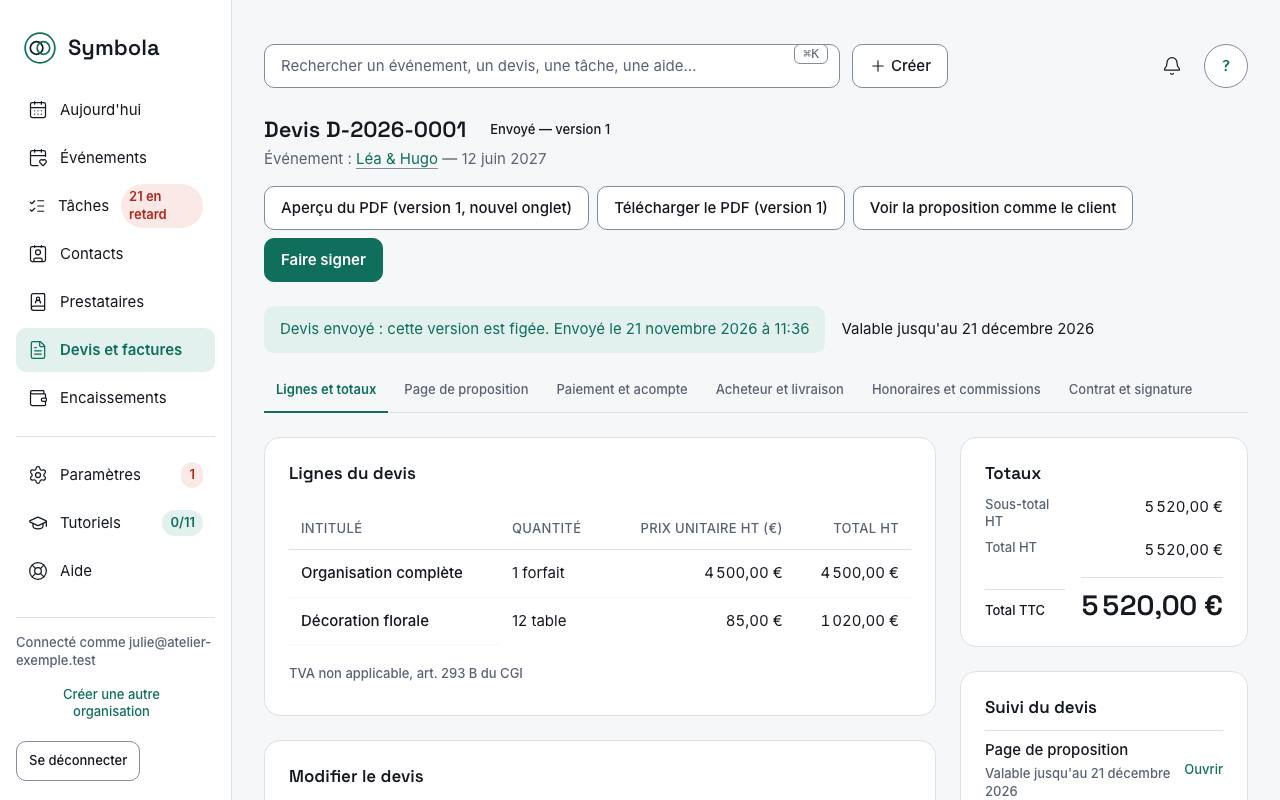
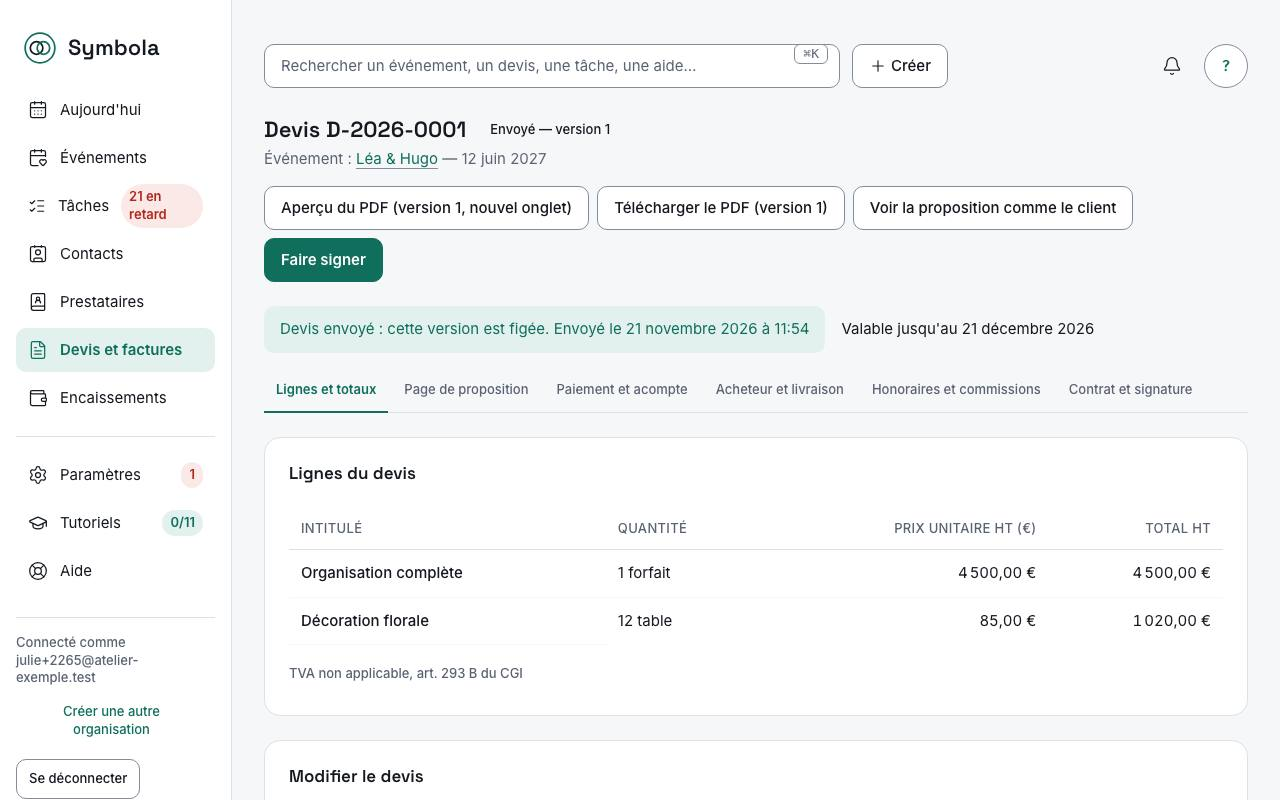
fix(ui): UX-13 lot 62, actions de ligne du programme en mots, totaux du devis sous le tableau jusqu'à 1536 px
Programme du jour J : « Modifier » et « Retirer » remplacent le crayon et la corbeille, comme
dans les réglages et le devis (motif « actions de ligne » de DESIGN.md) ; le nom accessible
reprend le mot affiché (« Retirer la ligne … »).
Devis : le tableau des lignes garde toute la largeur ; les totaux et l'encart de synthèse
passent dessous, côte à côte, en deçà de 1536 px. Capture d'aide de la fiche d'un devis refaite.

diff --git a/apps/symbola/app/events/[id]/program-editor.tsx b/apps/symbola/app/events/[id]/program-editor.tsx
@@ -10,7 +10,6 @@
 import { useEffect, useMemo, useRef, useState, useTransition } from "react";
 import { useRouter } from "next/navigation";
 import { useTranslations } from "next-intl";
-import { Pencil, Trash2 } from "lucide-react";
 import type { EventVendorSlot, ProgramItem } from "@/modules/events/service";
 import { clock, durationText, endTimeAfter, minutesBetween, programSpans, type SpanWords } from "@/lib/program-spans";
 import { FreeTextNotice } from "@/app/ui/free-text-notice";
@@ -405,20 +404,20 @@ export function ProgramEditor({
                       {who.length > 0 ? <span>{who.join(", ")}</span> : null}
                     </span>
                     <span role="cell" className="row-actions">
-                      <button type="button" className="icon-button" aria-label={t("editProgramItem", { label })} title={t("editProgramItem", { label })} data-edit-line={row.key} onClick={() => setOpenKey(row.key)}>
-                        <Pencil size={20} aria-hidden="true" />
+                      <button type="button" className="button-ghost" aria-label={t("editProgramItem", { label })} data-edit-line={row.key} onClick={() => setOpenKey(row.key)}>
+                        {t("edit")}
                       </button>
                       {row.item ? (
                         <form action={removeProgramItemAction}>
                           <input type="hidden" name="eventId" value={eventId} />
                           <input type="hidden" name="itemId" value={row.item.id} />
-                          <button type="submit" className="icon-button program-remove" aria-label={t("removeProgramItem", { label })} title={t("removeProgramItem", { label })}>
-                            <Trash2 size={20} aria-hidden="true" />
+                          <button type="submit" className="button-ghost program-remove" aria-label={t("removeProgramLine", { label })}>
+                            {t("remove")}
                           </button>
                         </form>
                       ) : (
-                        <button type="button" className="icon-button program-remove" aria-label={t("removeProgramItem", { label })} title={t("removeProgramItem", { label })} onClick={() => discard(row)}>
-                          <Trash2 size={20} aria-hidden="true" />
+                        <button type="button" className="button-ghost program-remove" aria-label={t("removeProgramLine", { label })} onClick={() => discard(row)}>
+                          {t("remove")}
                         </button>
                       )}
                     </span>

diff --git a/apps/symbola/app/styles/lot-62c-fiche-evenement.css b/apps/symbola/app/styles/lot-62c-fiche-evenement.css
@@ -12,7 +12,7 @@
     @apply mb-1;
   }
   .program-table .program-cols {
-    @apply grid-cols-[3.5rem_3.5rem_4.5rem_minmax(0,1fr)_11rem_11rem_5.75rem];
+    @apply grid-cols-[3.5rem_3.5rem_4.5rem_minmax(0,1fr)_10rem_10rem_9.5rem];
   }
   .program-table .program-line .program-main {
     @apply flex-row flex-wrap items-center gap-x-2 gap-y-0;
@@ -37,8 +37,13 @@
   .program-table .row-actions {
     @apply flex;
   }
+  /* Actions de ligne en mots (« Modifier », « Retirer »), comme dans les réglages et le devis : le
+     nom de la séquence reste dans le nom accessible. */
+  .program-table .row-actions .button-ghost {
+    @apply px-2 !text-body !font-medium;
+  }
   .program-table .row-actions .program-remove {
-    @apply text-critical hover:text-critical;
+    @apply !text-critical;
   }
   /* La ligne ouverte : ses champs sur des lignes de champs (« field-row »), dans la largeur de la carte. */
   .program-table .edit-row-open:focus {

diff --git a/apps/symbola/app/styles/lot-62d-devis.css b/apps/symbola/app/styles/lot-62d-devis.css
@@ -25,13 +25,18 @@
   }
 
   /* Rubrique « Lignes et totaux » : les lignes à gauche ; les totaux et l'encart de synthèse à
-     droite, dessous quand la place manque. */
+     droite à partir de 1536 px, dessous en deçà (le tableau garde toute la largeur : avec la TVA et
+     la remise, il ne tenait pas à côté des totaux sur un écran de portable). */
   .quote-layout {
-    @apply my-6 grid grid-cols-1 items-start gap-6 xl:grid-cols-[minmax(0,1fr)_18rem] 2xl:grid-cols-[minmax(0,1fr)_20rem];
+    @apply my-6 grid grid-cols-1 items-start gap-6 2xl:grid-cols-[minmax(0,1fr)_20rem];
   }
   .quote-main,
   .quote-aside {
     @apply flex min-w-0 flex-col gap-6;
+  }
+  /* Sous le tableau, les totaux et l'encart de synthèse se rangent côte à côte. */
+  .quote-aside {
+    @apply md:max-2xl:grid md:max-2xl:grid-cols-2 md:max-2xl:items-start;
   }
   .quote-layout .card {
     @apply my-0 min-w-0;
